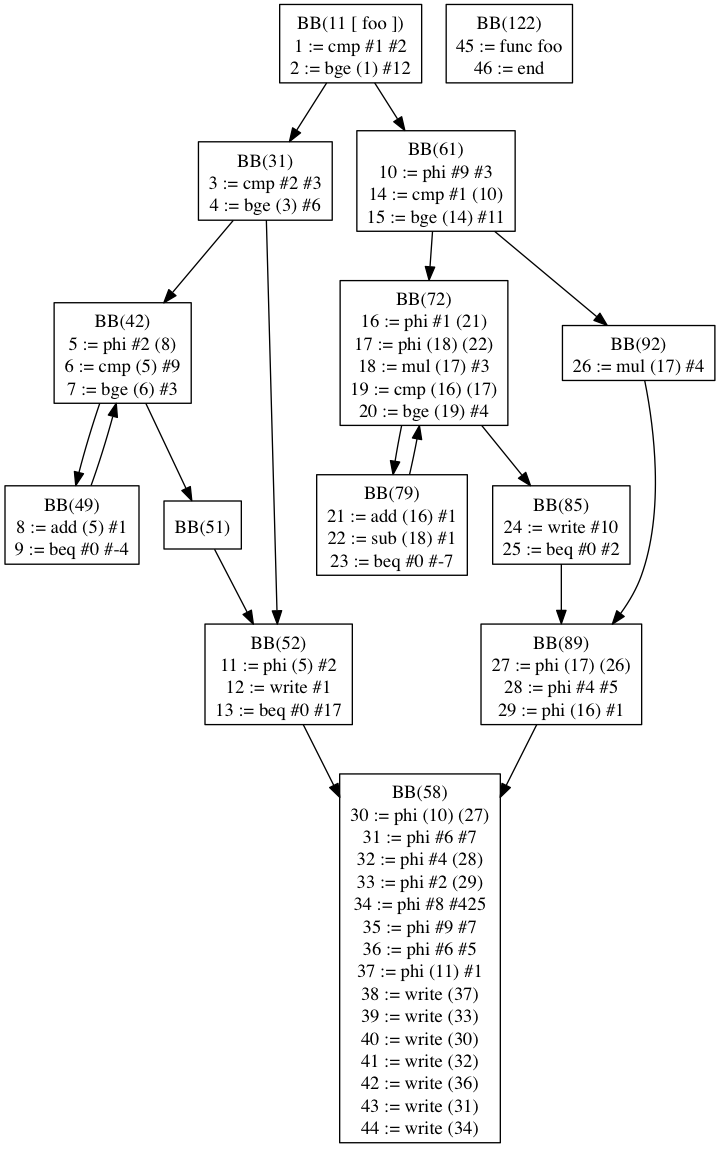
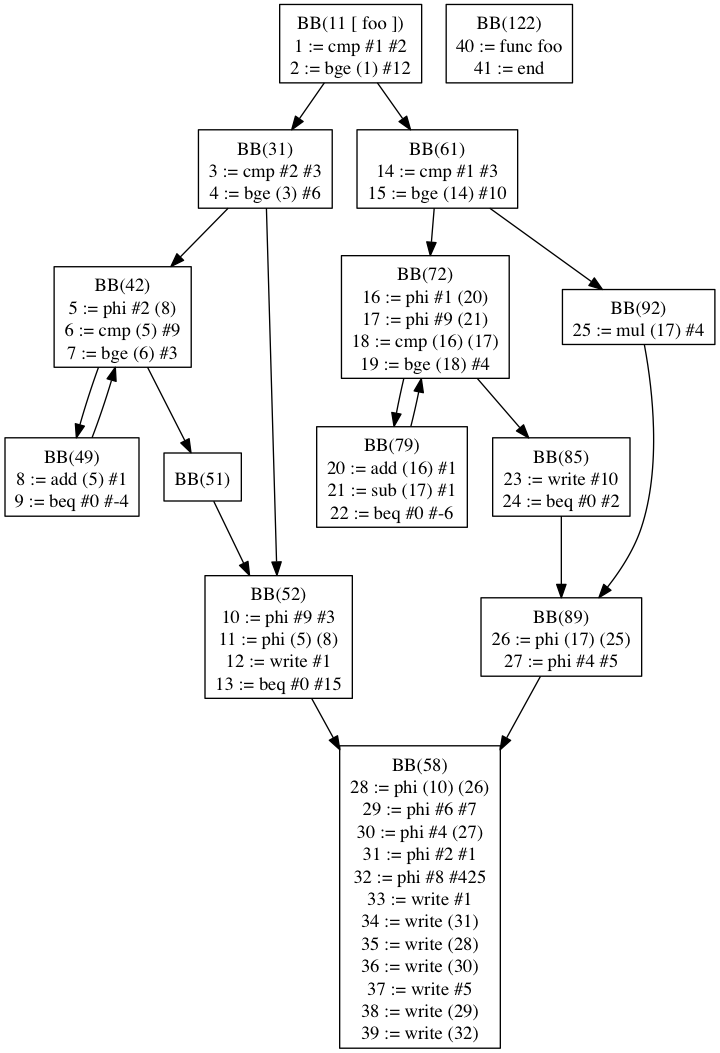
FIXED THE FUCKING PHI

diff --git a/project/src/com/uci/cs241/pl241/frontend/PLParser.java b/project/src/com/uci/cs241/pl241/frontend/PLParser.java
@@ -1460,11 +1460,9 @@ public class PLParser
 		{
 			PLIRInstruction follow = new PLIRInstruction(scope);
 			follow.fixupLocation = 0;
-			
 			advance(in);
 			
 			scope.pushNewScope("if" + (blockDepth++));
-//			scope.pushNewScope("entry" + (blockDepth++));
 			
 			// Parse the condition relation
 			PLIRBasicBlock entry = parse_relation(in);
@@ -1476,7 +1474,6 @@ public class PLParser
 					inst.forceGenerate(scope);
 				}
 			}
-			int startSpot = PLStaticSingleAssignment.globalSSAIndex;
 			PLIRInstruction x = entry.instructions.get(entry.instructions.size() - 1);
 			PLIRInstruction branch = CondNegBraFwd(x);
 			branch.fixupLocation = PLStaticSingleAssignment.globalSSAIndex - 1;
@@ -1492,7 +1489,6 @@ public class PLParser
 			// Parse the follow-through and add it as the first child of the entry block
 			PLIRBasicBlock thenBlock = parse_statSequence(in);
 			entry.leftChild = thenBlock;
-//			entry.children.add(thenBlock);
 			thenBlock.parents.add(entry);
 			
 			// Create the artificial join node and make it a child of the follow-through branch,
@@ -1542,6 +1538,10 @@ public class PLParser
 					thenBlock.addInstruction(uncond);
 				}
 				advance(in);
+				
+				// DEBUG
+				debug("parsing the else block");
+				scope.displayCurrentScopeSymbols();
 				
 				// Parse the else block and then configure the BB connections accordingly
 				elseBlock = parse_statSequence(in);
@@ -1604,7 +1604,7 @@ public class PLParser
 				
 				// Jump back from the if statement scope so we can update the variables with the appropriate phi result
 				scope.popScope();
-				blockDepth--;
+//				blockDepth--;
 				for (int i = 0; i < phisToAdd.size(); i++)
 				{
 					scope.updateSymbol(sharedModifiers.get(i), phisToAdd.get(i));
@@ -1614,6 +1614,9 @@ public class PLParser
 					// 	so the latest value in the current scope needs to be modified
 					entry.modifiedIdents.put(sharedModifiers.get(i), phisToAdd.get(i));
 				}
+				
+				debug("after else block");
+				scope.displayCurrentScopeSymbols();
 				
 				// Check for modifications in the else block (but not in the if)
 				ArrayList<String> modifiers = new ArrayList<String>();
@@ -1656,47 +1659,95 @@ public class PLParser
 			{
 				entry.rightChild = joinNode;
 				joinNode.parents.add(entry);
+//				scope.popScope();
+				
+				// Check for necessary phis to be inserted in the join block
+				// We need phis for variables that were modified in both branches so we fall through with the right value
+				ArrayList<String> modifiers = new ArrayList<String>();
+				for (String modded : thenBlock.modifiedIdents.keySet())
+				{
+					if (sharedModifiers.contains(modded) == false) // don't double-add
+					{
+						modifiers.add(modded);
+					}
+				}
+				debug("(if statement without else) Inserting " + modifiers.size() + " phis");
+				for (String var : modifiers)
+				{
+					// Check to make sure this thing was actually in scope!
+					if (scope.getCurrentValue(var) == null)
+					{
+						debug("Uninitialized identifier in path: " + var);
+					}
+					
+					offset++;
+					PLIRInstruction leftInst = thenBlock.modifiedIdents.get(var);
+					leftInst.forceGenerate(scope, leftInst.tempPosition);
+					
+//					PLIRInstruction followInst = scope.getCurrentValue(var);
+					PLIRInstruction followInst = scope.getLastValue(var);
+					
+					followInst.forceGenerate(scope, followInst.tempPosition);
+					PLIRInstruction phi = PLIRInstruction.create_phi(scope, leftInst, followInst, PLStaticSingleAssignment.globalSSAIndex);
+					debug(phi.toString());
+					joinNode.insertInstruction(phi, 0);
+					
+					// The current value in scope needs to be updated now with the result of the phi
+					System.out.println(scope.getCurrentScope());
+					scope.updateSymbol(var, phi);
+					
+					// Add to this block's list of modified identifiers
+					// Rationale: since we added a phi, the value potentially changes (is modified), 
+					// 	so the latest value in the current scope needs to be modified
+					entry.modifiedIdents.put(var, phi);
+					joinNode.modifiedIdents.put(var, phi);
+				}
 				scope.popScope();
-				blockDepth--;
+//				blockDepth--;
 			}
 			
-			// Check for necessary phis to be inserted in the join block
-			// We need phis for variables that were modified in both branches so we fall through with the right value
-			ArrayList<String> modifiers = new ArrayList<String>();
-			for (String modded : thenBlock.modifiedIdents.keySet())
-			{
-				if (sharedModifiers.contains(modded) == false) // don't double-add
-				{
-					modifiers.add(modded);
-				}
-			}
-			debug("(if statement without else) Inserting " + modifiers.size() + " phis");
-			for (String var : modifiers)
-			{
-				// Check to make sure this thing was actually in scope!
-				if (scope.getCurrentValue(var) == null)
-				{
-					debug("Uninitialized identifier in path: " + var);
-				}
-				
-				offset++;
-				PLIRInstruction leftInst = thenBlock.modifiedIdents.get(var);
-				leftInst.forceGenerate(scope, leftInst.tempPosition);
-				PLIRInstruction followInst = scope.getCurrentValue(var);
-				followInst.forceGenerate(scope, followInst.tempPosition);
-				PLIRInstruction phi = PLIRInstruction.create_phi(scope, leftInst, followInst, PLStaticSingleAssignment.globalSSAIndex);
-				debug(phi.toString());
-				joinNode.insertInstruction(phi, 0);
-				
-				// The current value in scope needs to be updated now with the result of the phi
-				scope.updateSymbol(var, phi);
-				
-				// Add to this block's list of modified identifiers
-				// Rationale: since we added a phi, the value potentially changes (is modified), 
-				// 	so the latest value in the current scope needs to be modified
-				entry.modifiedIdents.put(var, phi);
-				joinNode.modifiedIdents.put(var, phi);
-			}
+//			// Check for necessary phis to be inserted in the join block
+//			// We need phis for variables that were modified in both branches so we fall through with the right value
+//			ArrayList<String> modifiers = new ArrayList<String>();
+//			for (String modded : thenBlock.modifiedIdents.keySet())
+//			{
+//				if (sharedModifiers.contains(modded) == false) // don't double-add
+//				{
+//					modifiers.add(modded);
+//				}
+//			}
+//			debug("(if statement without else) Inserting " + modifiers.size() + " phis");
+//			for (String var : modifiers)
+//			{
+//				// Check to make sure this thing was actually in scope!
+//				if (scope.getCurrentValue(var) == null)
+//				{
+//					debug("Uninitialized identifier in path: " + var);
+//				}
+//				
+//				offset++;
+//				PLIRInstruction leftInst = thenBlock.modifiedIdents.get(var);
+//				leftInst.forceGenerate(scope, leftInst.tempPosition);
+//				PLIRInstruction followInst = scope.getCurrentValue(var);
+//				followInst.forceGenerate(scope, followInst.tempPosition);
+//				PLIRInstruction phi = PLIRInstruction.create_phi(scope, leftInst, followInst, PLStaticSingleAssignment.globalSSAIndex);
+//				debug(phi.toString());
+//				joinNode.insertInstruction(phi, 0);
+//				
+//				// The current value in scope needs to be updated now with the result of the phi
+//				scope.updateSymbol(var, phi);
+//				
+//				// Add to this block's list of modified identifiers
+//				// Rationale: since we added a phi, the value potentially changes (is modified), 
+//				// 	so the latest value in the current scope needs to be modified
+//				entry.modifiedIdents.put(var, phi);
+//				joinNode.modifiedIdents.put(var, phi);
+//			}
+			
+//			if (elseBlock != null)
+//			{
+//				scope.popScope();
+//			}
 			
 			// After the phis have been inserted at the appropriate positions, fixup the entry instructions
 			if (elseBlock != null)
@@ -1770,7 +1821,7 @@ public class PLParser
 			entry.addInstruction(bgeInst);
 			
 			scope.popScope();
-			blockDepth--;
+//			blockDepth--;
 			
 			////////////////////////////////////////////
 			// We've passed through the body and know what variables are updated, now we need to insert phis
@@ -2116,7 +2167,7 @@ public class PLParser
 			
 			// Leave the scope of this new function
 			String leavingScope = scope.popScope();
-			blockDepth--;
+//			blockDepth--;
 			debug("Leaving scope: " + leavingScope);
 		}
 		else

diff --git a/project/src/com/uci/cs241/pl241/frontend/PLSymbolTable.java b/project/src/com/uci/cs241/pl241/frontend/PLSymbolTable.java
@@ -212,6 +212,18 @@ public class PLSymbolTable
 		return currentScope.size();
 	}
 	
+	public PLIRInstruction getLastValue(String sym)
+	{
+		if (symTable.get(getCurrentScope()) == null) 
+		{
+			return null;
+		}
+		else
+		{
+			return prevSymTable.get(sym).get(prevSymTable.get(sym).size() - 2);
+		}
+	}
+	
 	public PLIRInstruction getCurrentValue(String sym)
 	{
 		if (symTable.get(getCurrentScope()) == null) 
